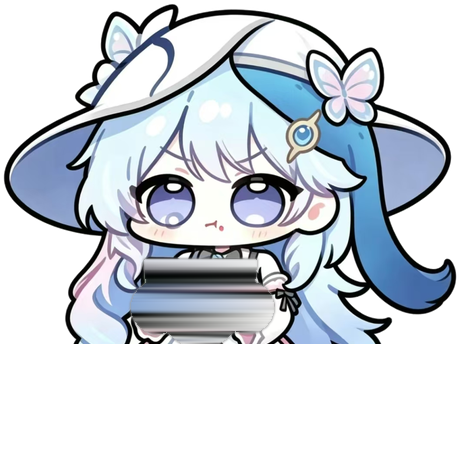
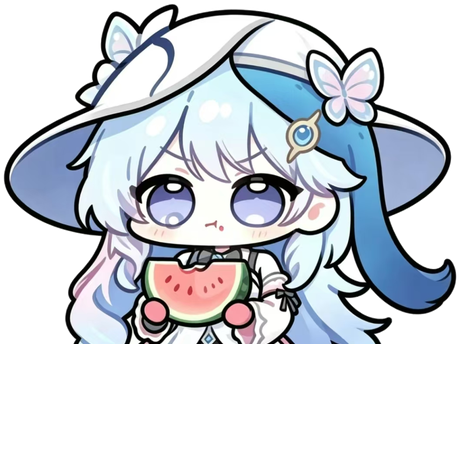
fix: 图片原生拖拽导致真实鼠标拖不动（禁用 native drag）；移除吃西瓜动作与西瓜图层

Changed region(s): [[0.2739, 0.5612, 0.6087, 0.7795]]

diff --git a/js/main.js b/js/main.js
@@ -52,7 +52,6 @@
     scheduleWander(6000);
     scheduleChat(22000);
     scheduleAction(7000);
-    scheduleEat(16000);
   }
 
   if (enterBtn) enterBtn.addEventListener('click', enterSite);
@@ -294,7 +293,12 @@
 
   function pick(list) { return list[Math.floor(Math.random() * list.length)]; }
 
-  /* ---------- 贴边：拖到左右边缘就扒在边上 ---------- */
+  // 图片原生拖拽会打断 pointer 事件流，导致真实鼠标「拖不动」——直接掐掉
+  document.addEventListener('dragstart', function (e) {
+    if (pet && pet.contains(e.target)) e.preventDefault();
+  });
+
+  /* ---------- 贴边：拖到左右边缘就停在边上（正常站着、转身朝屏幕里侧） ---------- */
   var clinging = '';        // '' | 'l' | 'r'
   var EDGE_NEAR = 64;       // 盒子离边缘这么近就吸附
   var clingTimer = 0;
@@ -373,7 +377,6 @@
     if (pet) pet.classList.toggle('is-menu-open', open);
     if (open) {
       pausedUntil = Date.now() + 15000;   // 菜单开着的时候先别乱跑
-      stopEating();
     }
   }
 
@@ -407,57 +410,7 @@
     }, delay || (16000 + Math.random() * 16000));
   }
 
-  /* ---------- 西瓜图层（会被举到嘴边，咬一口就真的变小） ---------- */
-  var petMelon = document.getElementById('petMelon');
-  var MELON_FRAMES = ['assets/pet-melon-1.png', 'assets/pet-melon-2.png', 'assets/pet-melon-3.png'];
 
-  /* ---------- 吃西瓜：西瓜举到嘴边 → 咬两口 → 咀嚼 → 放下来 ---------- */
-  var eatTimers = [];
-  var eating = false;
-
-  function stopEating() {
-    eatTimers.forEach(clearTimeout);
-    eatTimers = [];
-    eating = false;
-    if (pet) pet.classList.remove('is-eating');
-    if (petMelon) petMelon.src = MELON_FRAMES[0];
-  }
-
-  function eatWatermelon() {
-    if (!pet || !petMelon || eating || !entered) return;
-    eating = true;
-    petMelon.src = MELON_FRAMES[0];
-    pet.classList.add('is-eating');          // 举起来 + 咀嚼由 CSS 动画负责
-    eatTimers.push(setTimeout(function () {
-      petMelon.src = MELON_FRAMES[1];        // 咬两口：西瓜真的被咬掉了
-      petSay('啊呜…', 1400);
-    }, 1100));
-    eatTimers.push(setTimeout(function () {
-      petMelon.src = MELON_FRAMES[2];        // 咬掉大半
-    }, 2100));
-    eatTimers.push(setTimeout(function () {
-      pet.classList.remove('is-eating');
-      petMelon.src = MELON_FRAMES[0];
-      eating = false;
-      petSay(pick(PET_EAT_LINES), 2800);
-    }, 4300));
-  }
-
-  var eatTimer = 0;
-  function scheduleEat(delay) {
-    clearTimeout(eatTimer);
-    if (reduceMotion || petQuiet || clinging || !pet) return;
-    eatTimer = setTimeout(function () {
-      if (entered && !document.hidden && !petMenuIsOpen() && !walking && !acting) eatWatermelon();
-      scheduleEat(26000 + Math.random() * 30000);
-    }, delay || (22000 + Math.random() * 24000));
-  }
-
-  // 预加载三帧西瓜，切换时不闪
-  MELON_FRAMES.forEach(function (src) {
-    var im = new Image();
-    im.src = src;
-  });
 
   /* ---------- 安静模式 ---------- */
   var petQuietBtn = document.getElementById('petQuiet');
@@ -475,7 +428,6 @@
     if (petQuiet) {
       // 立刻停下来：把当前位置固定住，清掉待办，收回气泡
       releaseCling(true);
-      stopEating();
       freezeWalk();
       clearTimeout(wanderTimer);
       clearTimeout(chatTimer);
@@ -512,7 +464,6 @@
   // （走动动画进行到一半时也能正确接住，不会跳位）
   function freezeWalk() {
     if (!pet) return;
-    stopEating();                 // 被抓住的时候先别吃了
     clearTimeout(walkTimer);
     walking = false;
     pet.classList.remove('is-walking');
@@ -534,7 +485,7 @@
   }
 
   function wanderStep() {
-    if (!pet || walking || acting || clinging || !entered || petQuiet || eating || document.hidden ||
+    if (!pet || walking || acting || clinging || !entered || petQuiet || document.hidden ||
         petMenuIsOpen() || Date.now() < pausedUntil) {
       scheduleWander(3500);
       return;
@@ -612,7 +563,7 @@
     clearTimeout(actionTimer);
     if (reduceMotion || petQuiet || clinging || !pet) return;
     actionTimer = setTimeout(function () {
-      if (entered && !document.hidden && !petMenuIsOpen() && !walking && !eating && !acting &&
+      if (entered && !document.hidden && !petMenuIsOpen() && !walking && !acting &&
           Date.now() >= pausedUntil) {
         doAction(pick(ACTIONS));
       }
@@ -637,7 +588,7 @@
   /* ---------- 会注意到你：鼠标跑到另一边时她会转身（有时还蹦一下） ---------- */
   var lastLookAt = 0;
   document.addEventListener('mousemove', function (e) {
-    if (!pet || !entered || walking || eating || acting || clinging || petQuiet || petMenuIsOpen()) return;
+    if (!pet || !entered || walking || acting || clinging || petQuiet || petMenuIsOpen()) return;
     if (pet.classList.contains('is-dragging') || pet.classList.contains('is-dropping')) return;
     var now = Date.now();
     if (now - lastLookAt < 2500) return;
@@ -710,6 +661,7 @@
 
     petBtn.addEventListener('pointerdown', function (e) {
       if (e.pointerType === 'mouse' && e.button !== 0) return;
+      e.preventDefault();                            // 阻止选中文字 / 触发图片原生拖拽
       if (clinging) releaseCling(true);              // 抓住她就先松手站起来
       freezeWalk();                                  // 先把走动偏移并进 left/bottom
       var r = pet.getBoundingClientRect();
@@ -790,7 +742,6 @@
       scheduleWander(4000);
       scheduleChat(6000);
       scheduleAction(5000);
-      scheduleEat(12000);
     }
   });
 

diff --git a/css/style.css b/css/style.css
@@ -779,6 +779,8 @@ body.is-entered .main { opacity: 1; visibility: visible; }
    ============================================================= */
 .pet {
   position: fixed;
+  -webkit-user-select: none;
+  user-select: none;
   left: clamp(10px, 2.6vw, 28px);
   bottom: clamp(10px, 2.4vw, 24px);
   z-index: 34;
@@ -841,6 +843,8 @@ body.is-entered .pet__enter {
 }
 .pet__layer {
   position: absolute;
+  -webkit-user-drag: none;      /* 关键：不然真实鼠标拖动会变成浏览器拖图片 */
+  user-select: none;
   left: 0;
   top: 0;
   width: 100%;
@@ -922,26 +926,6 @@ body.is-entered .pet__enter {
 @keyframes petCheer {
   0%, 100% { transform: translateY(0) rotate(0); }
   50%      { transform: translateY(-5px) rotate(3deg); }
-}
-/* 吃西瓜：西瓜举到嘴边（+ 咀嚼点头） */
-.pet__melon { transition: transform .45s var(--ease); }
-.pet.is-eating .pet__melon { animation: petMelonLift 4.2s var(--ease) forwards; }
-@keyframes petMelonLift {
-  0%   { transform: translateY(0) rotate(0); }
-  12%  { transform: translateY(-30px) rotate(-3deg); }
-  22%  { transform: translateY(-26px) rotate(-1deg); }
-  32%  { transform: translateY(-30px) rotate(-3deg); }
-  42%  { transform: translateY(-26px) rotate(-1deg); }
-  52%  { transform: translateY(-30px) rotate(-3deg); }
-  62%  { transform: translateY(-26px) rotate(-1deg); }
-  72%  { transform: translateY(-30px) rotate(-3deg); }
-  86%  { transform: translateY(-14px) rotate(-1deg); }
-  100% { transform: translateY(0) rotate(0); }
-}
-.pet.is-eating .pet__upper { animation: petChomp .4s ease-in-out 10; }
-@keyframes petChomp {
-  0%, 100% { transform: rotate(0deg); }
-  45%      { transform: rotate(1.8deg) translateY(1.5px); }
 }
 
 /* 拖动：抓起来时抬一下、放下时落地压一下 */

diff --git a/index.html b/index.html
@@ -308,11 +308,10 @@
     <span class="pet__art">
       <span class="pet__puppet">
         <span class="pet__chew">
-          <img class="pet__layer pet__leg pet__leg--l" src="assets/pet-leg-l.png" alt="" aria-hidden="true" decoding="async">
-          <img class="pet__layer pet__leg pet__leg--r" src="assets/pet-leg-r.png" alt="" aria-hidden="true" decoding="async">
-          <img class="pet__layer pet__lower" src="assets/pet-lower.png" alt="" aria-hidden="true" decoding="async">
-          <img class="pet__layer pet__upper" src="assets/pet-upper.png" alt="" decoding="async">
-          <img class="pet__layer pet__melon" id="petMelon" src="assets/pet-melon-1.png" alt="" aria-hidden="true" decoding="async">
+          <img draggable="false" class="pet__layer pet__leg pet__leg--l" src="assets/pet-leg-l.png" alt="" aria-hidden="true" decoding="async">
+          <img draggable="false" class="pet__layer pet__leg pet__leg--r" src="assets/pet-leg-r.png" alt="" aria-hidden="true" decoding="async">
+          <img draggable="false" class="pet__layer pet__lower" src="assets/pet-lower.png" alt="" aria-hidden="true" decoding="async">
+          <img draggable="false" class="pet__layer pet__upper" src="assets/pet-upper.png" alt="" decoding="async">
         </span>
       </span>
     </span>

diff --git a/README.md b/README.md
@@ -164,11 +164,10 @@ git push
 | **满屏溜达** | 每 4.5～11 秒换位置，**整个屏幕都能去**（不只底部）；一步一蹦，路上还有腾空/落地挤压 |
 | **性格小动作** | 每 4～9 秒随机来一个：歪头、蹦一下、原地转圈、伸懒腰、开心晃动、**趴下休息**（翻倒躺一会儿） |
 | **会注意到你** | 鼠标跑到另一侧时，她会转身朝向鼠标，有时还蹦一下打招呼 |
-| **吃西瓜** | 每 20～50 秒：**把西瓜举到嘴边** → 咬一口（西瓜真的变小）→ 再咬（只剩月牙）→ 边嚼边说「啊呜…」→ 放下来说「西瓜很甜。」 |
 | **说话** | 进站打招呼、点她说导航台词、走到地方偶尔嘀咕、平时每隔 18～40 秒说一句 |
 | **待机** | 呼吸 + 重心左右移 + 上半身慢摆（三个不同周期叠加，几乎不会重复同一个姿势） |
 | **可拖动** | 按住拖到任意位置，位置记在浏览器里，刷新后还在原处 |
-| **安静模式** | 菜单底部的蓝色开关。打开后她**不再自己走动、不说话、也不吃西瓜**（点她导航依然可用）；状态会被记住 |
+| **安静模式** | 菜单底部的蓝色开关。打开后她**不再自己走动、不说话、也不做小动作**（点她导航依然可用）；状态会被记住 |
 | **系统偏好** | 系统开启「减少动态效果」时，走动 / 小动作 / 吃西瓜全部停下 |
 
 ### 桌宠用到的文件
@@ -179,7 +178,6 @@ git push
 | `assets/pet-upper.png` | 上半身（头/发/手），身上那块西瓜位置已用衣服补好 | 腰 `50% 73.7%` |
 | `assets/pet-lower.png` | 下半身（裙摆/胯） | 腰下 `50% 77.5%` |
 | `assets/pet-leg-l/r.png` | 左右腿 | 胯 `41.5% / 56.1% 78%` |
-| `assets/pet-melon-1/2/3.png` | 西瓜：完整 / 咬两口 / 咬掉大半（会被举到嘴边） | 自身 |
 | `tools/make-pet-layers.py` | 从 `pet.png` 重新生成这些分层（Python + Pillow） | — |
 
 > 关于眨眼：试过用「画一张闭眼贴片叠上去」的做法，但在成品插画上硬画五官一定会露出接缝（羽化边缘会透出原来的眼睛），效果反而假，所以**取消了合成眨眼**，把"活"放到运动上。如果你想要真正的眨眼，最靠谱的是提供 2～3 帧「眼睛部位」的图（手绘或 AI 改图），我把它接进去。
